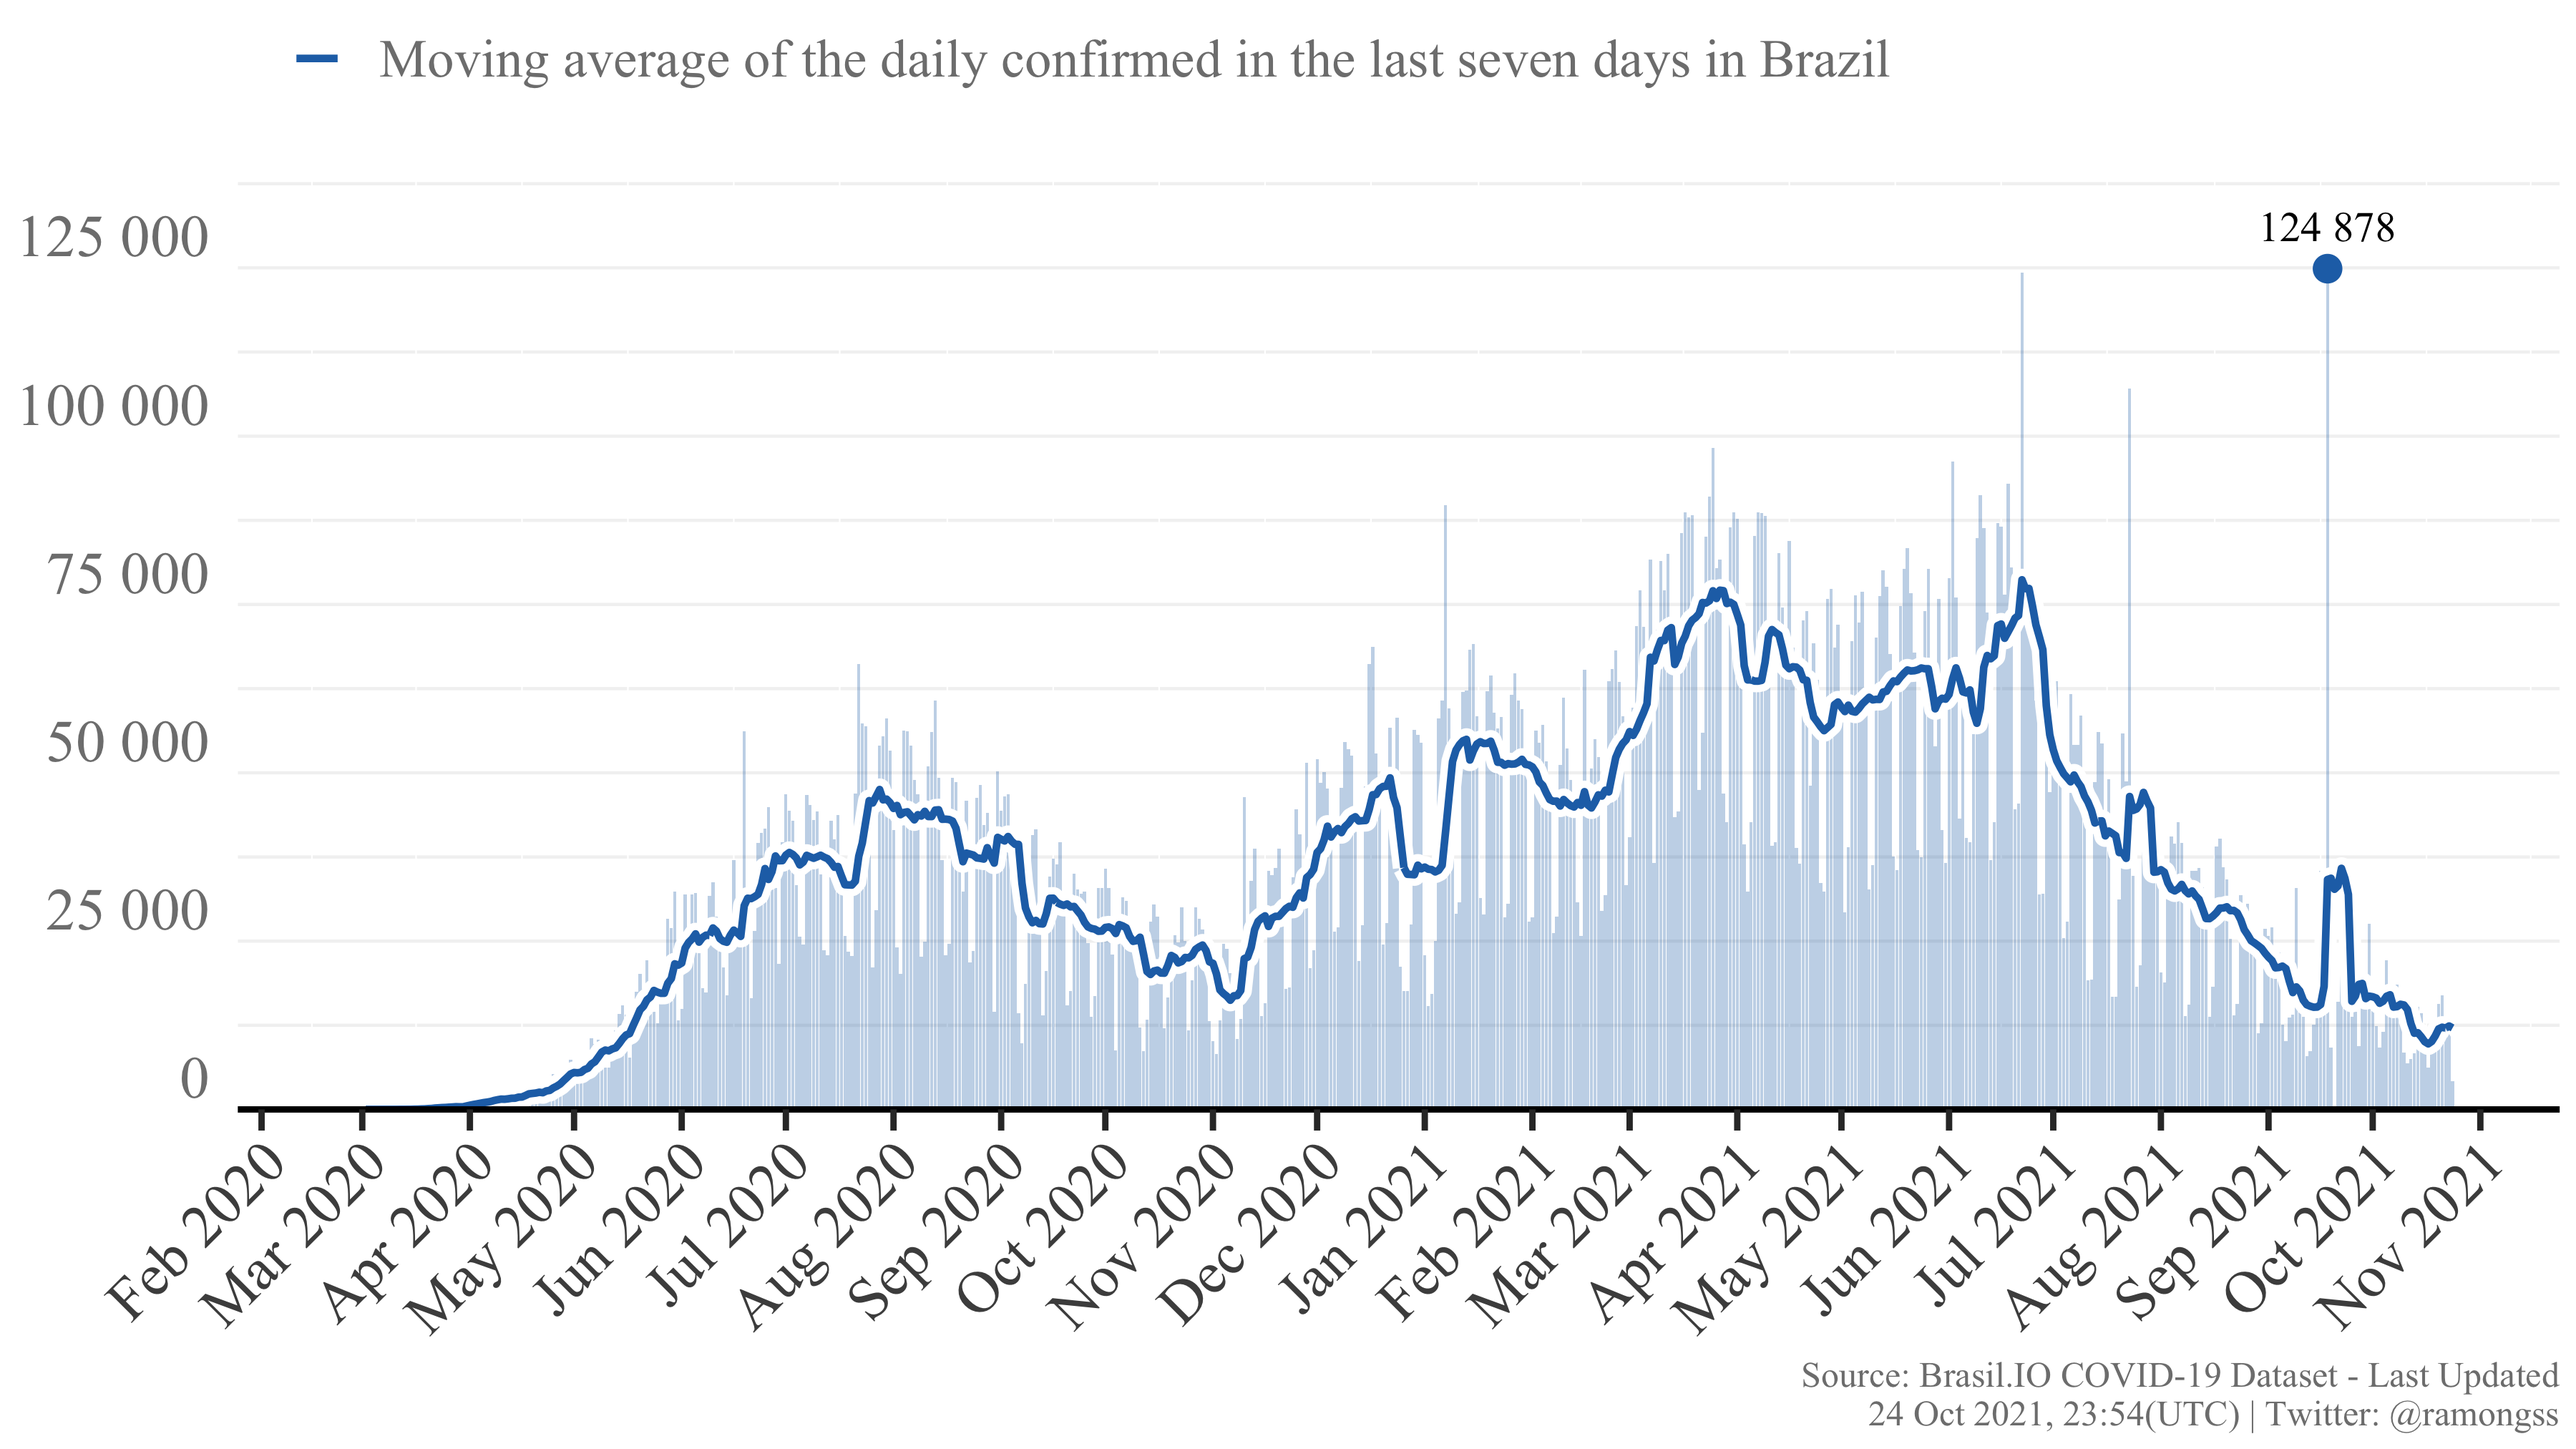
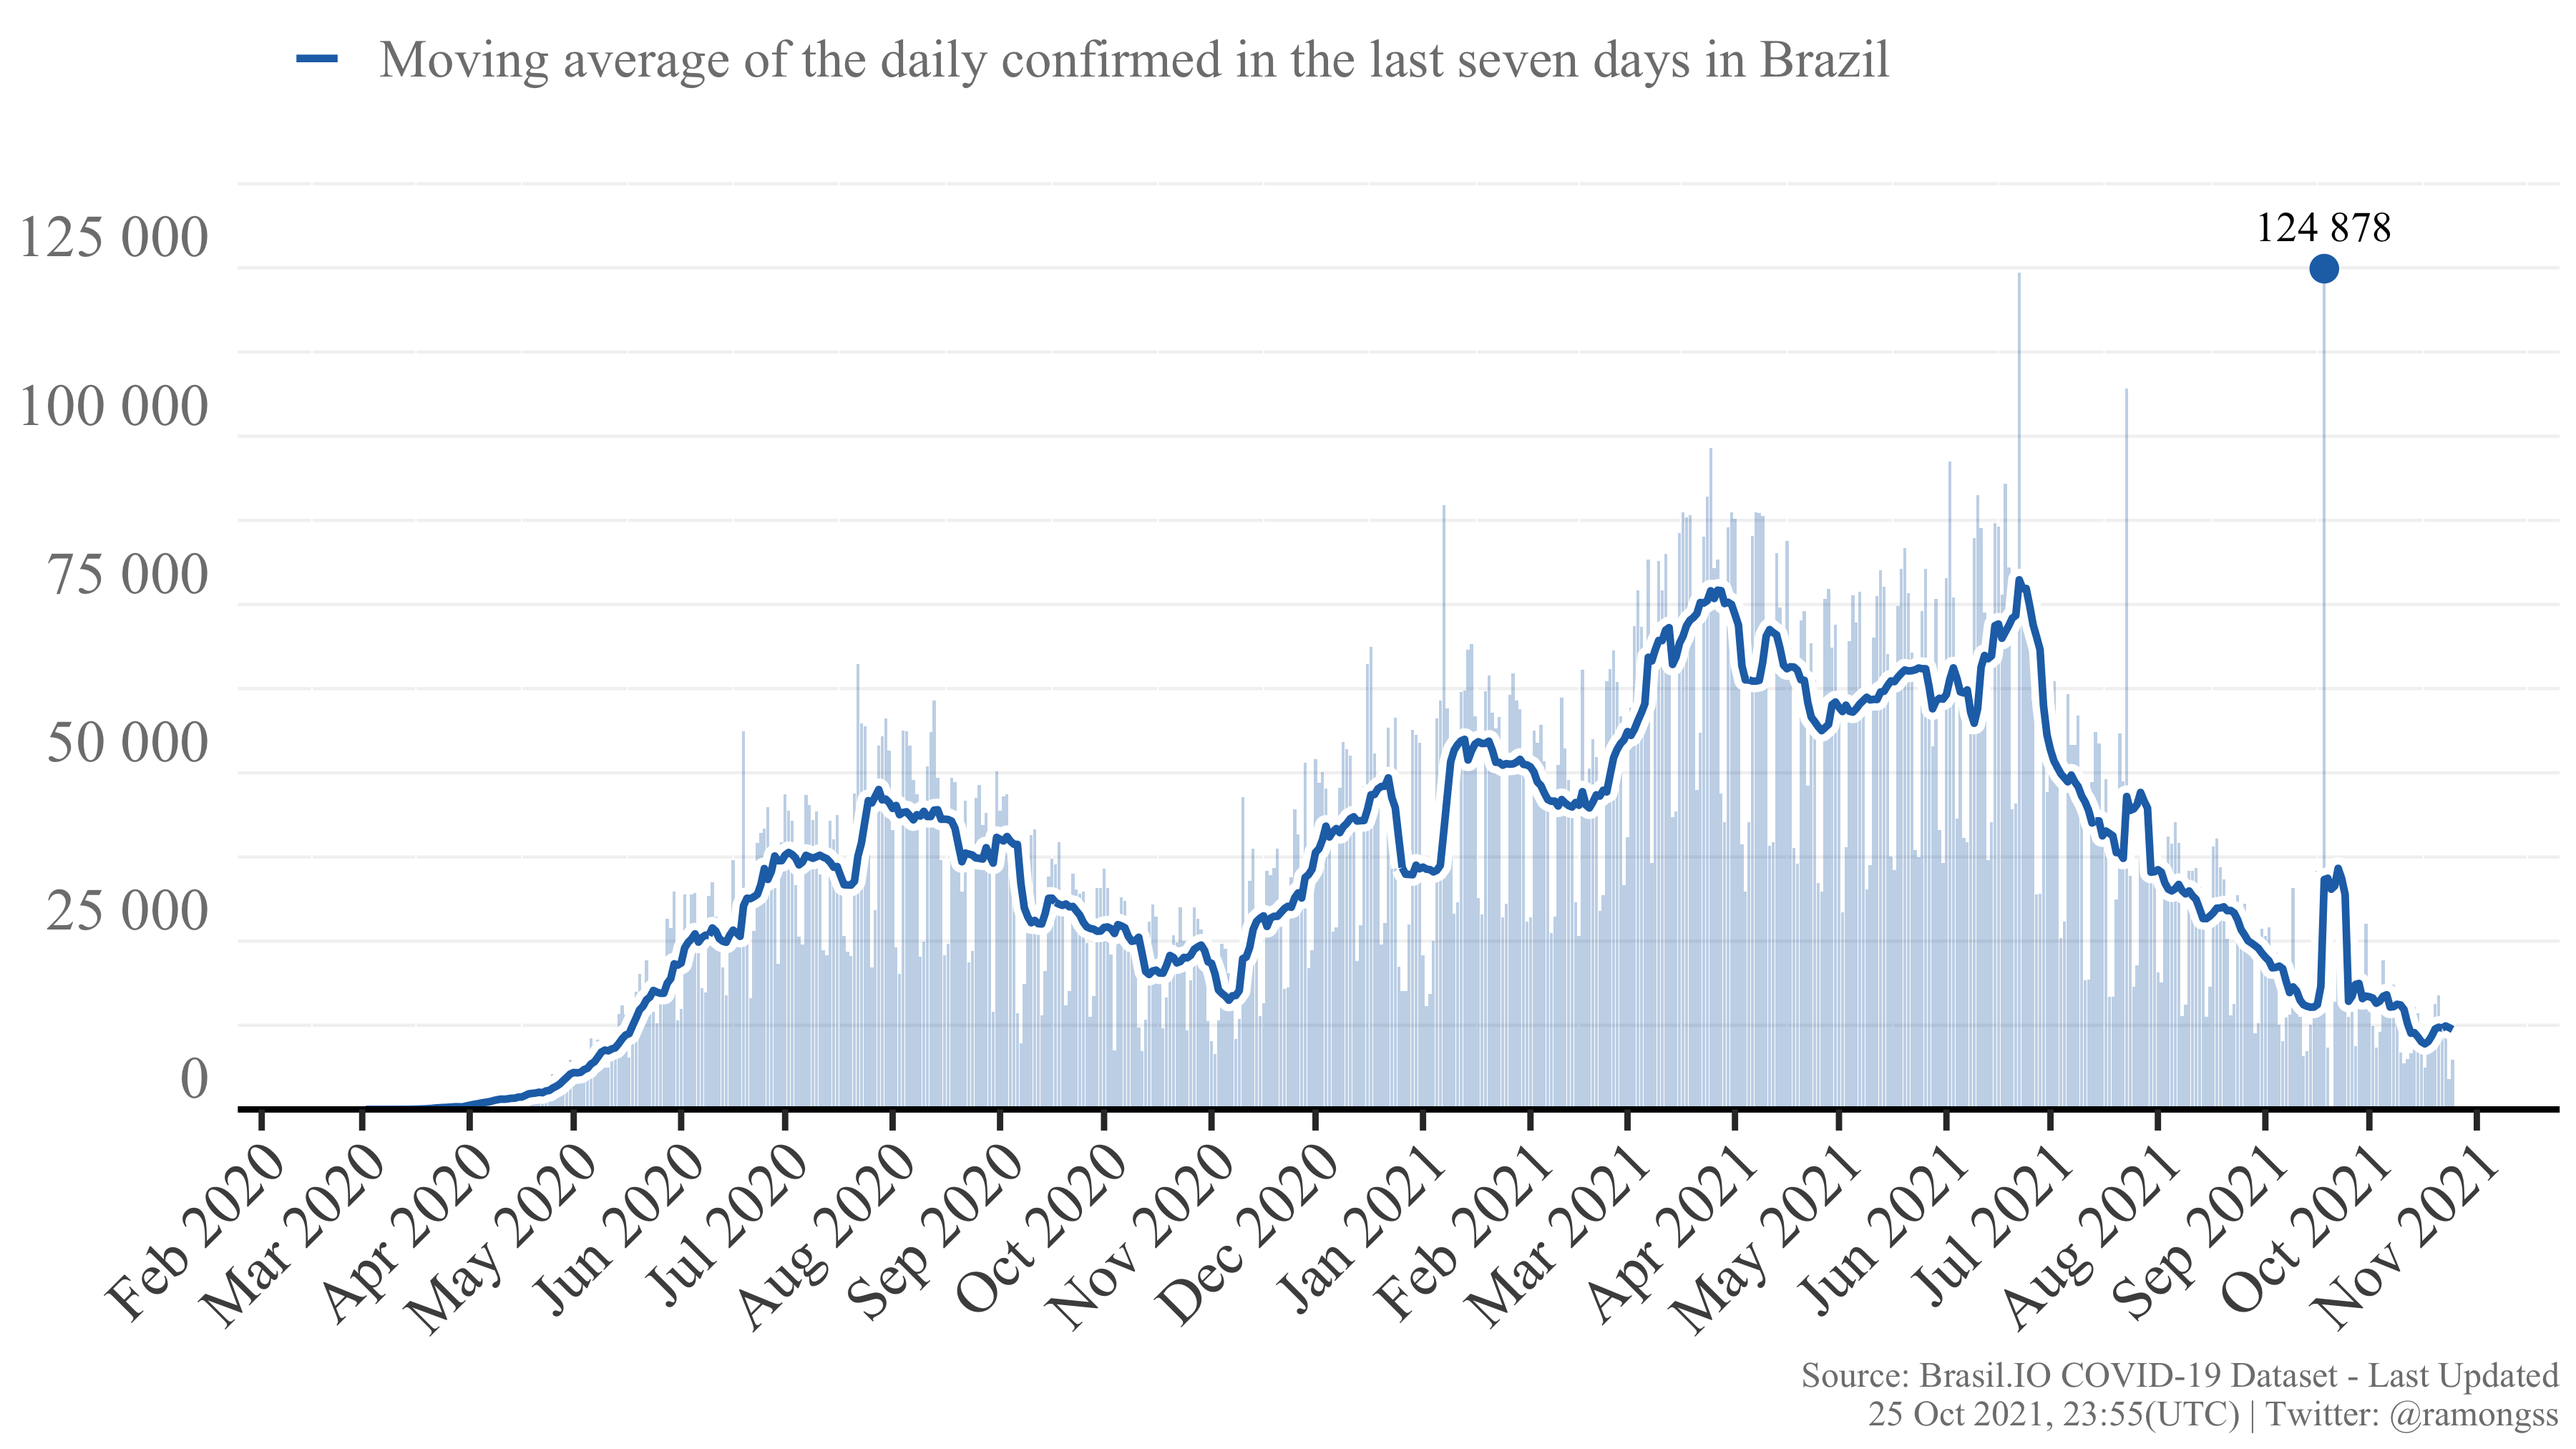
Re-build README.Rmd

diff --git a/README.md b/README.md
@@ -27,8 +27,8 @@ download_brasilio_table <- function(dataset = "covid19", table_name){
 
 ## COVID-19 Confirmed cases
 
-Currently, Brazil has a total of **21,733,465** confirmed cases at **24
-Oct, 2021**, with **4,183** new confirmed cases. The daily maximum
+Currently, Brazil has a total of **21,741,210** confirmed cases at **25
+Oct, 2021**, with **7,390** new confirmed cases. The daily maximum
 incidence was **124,878** confirmed cases at **18 Sep, 2021**. Here
 follows the Figure showing the confirmed case incidence as the bars, and
 the line as the moving average of the last 7 days.
@@ -37,8 +37,8 @@ the line as the moving average of the last 7 days.
 
 ## COVID-19 Deaths
 
-Currently, Brazil has a total of **605,898** deaths at **24 Oct, 2021**,
-with **110** new deaths. The daily maximum deaths incidence was
+Currently, Brazil has a total of **606,104** deaths at **25 Oct, 2021**,
+with **197** new deaths. The daily maximum deaths incidence was
 **4,148** deaths at **08 Apr, 2021**. Here follows the Figure showing
 the deaths incidence as the bars, and the line as the moving average of
 the last 7 days.
@@ -49,4 +49,4 @@ the last 7 days.
 
 This page is daily updated automatically using Github Actions.
 
-*Last update: 24 Oct 2021, 23:54 (UTC).*
+*Last update: 25 Oct 2021, 23:55 (UTC).*
